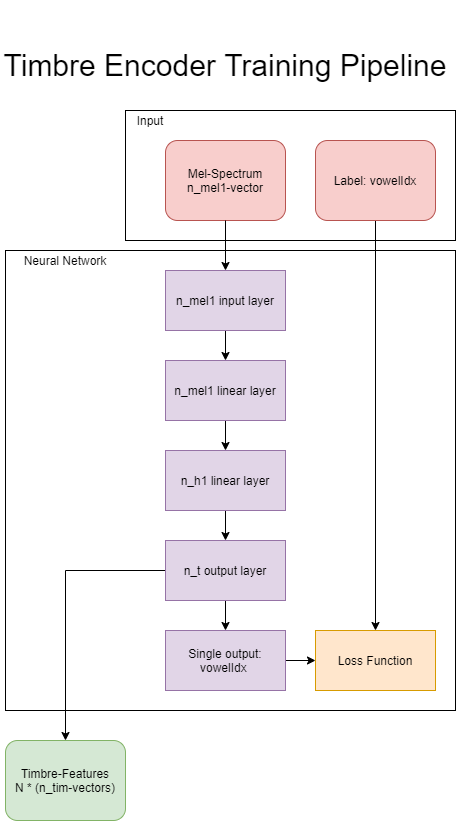
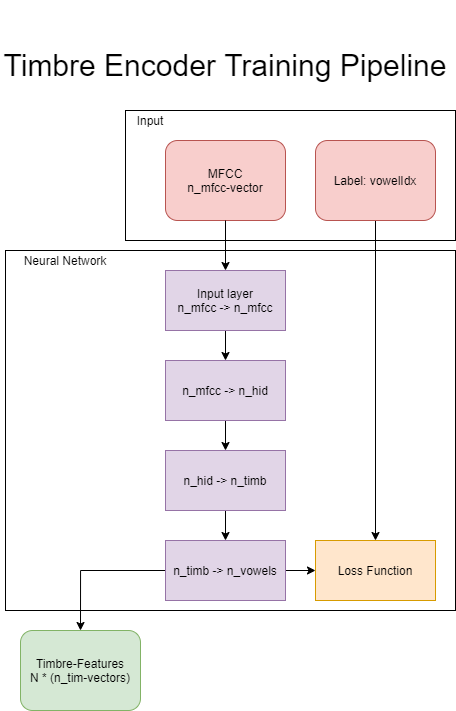
Clean up the timbre encoder notebook, add diagrams for timbre pipelines

Changed region(s): [[0.0, 0.0619, 1.0, 0.8664], [0.0, 0.7117, 0.307, 1.0], [0.0307, 0.3094, 0.2456, 0.3713]]

diff --git a/README.md b/README.md
@@ -21,6 +21,9 @@ The following illustrates the organization of our data.
 ![Data-Label Pairs](/Documentation/Figures/Data-Label_Pairs.png)
 
 ## Training Pipeline
-The following illustrates the training pipelines for the encoder and decoders:  
-![Encoder Training Pipeline](/Documentation/Figures/Timbre-Enc_Training.png)  
+The following illustrates the training pipelines for the encoder and decoders. There are two possible timbre-extrating neural nets we attempted. The first is a classifier which takes MFCC and tries to output the vowel label, while the other is an autoencoder which takes an MFCC, reduces it from 20 to 4 dimensions, and attempts to reconstruct the original MFCC.
+![Encoder Training Pipeline](/Documentation/Figures/Timbre-Enc_Training.png)
+![TimbreVAE Training Pipeline](/Documentation/Figures/Timbre-VAE_Training.png)
+
+This is the proposed decoder that makes use of the Timbre encoder:
 ![Decoder Training Pipeline](/Documentation/Figures/Decoder_Training.png)
